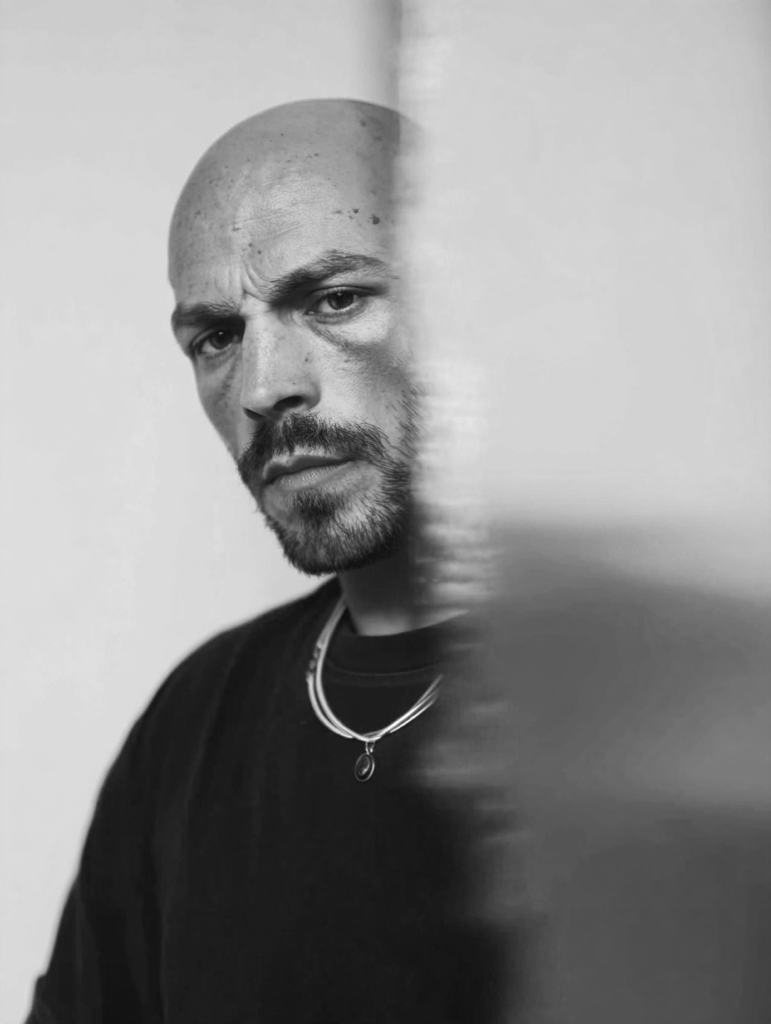
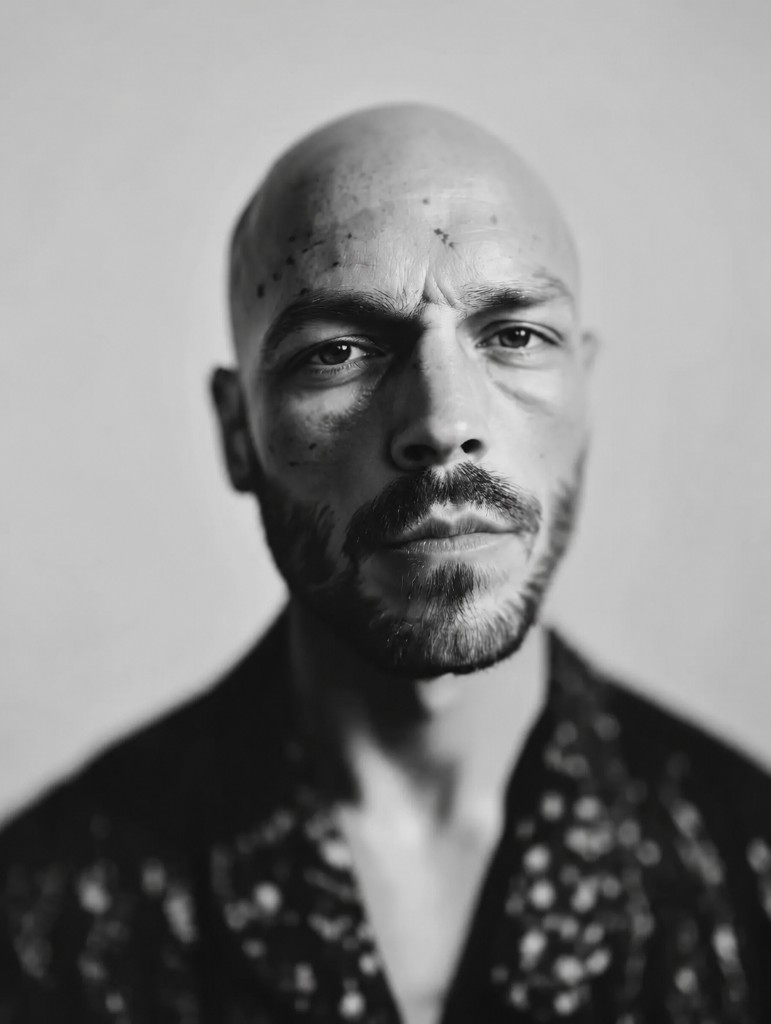
Use matched open-eyes portrait for realistic About blink.
Same 771×1024 frame pair from one shoot — full crossfade instead of masked eye overlays.

diff --git a/src/components/AboutPortrait.module.css b/src/components/AboutPortrait.module.css
@@ -20,52 +20,33 @@
   }
 }
 
-.closed,
-.open {
+.portrait,
+.portraitOpen {
   object-fit: contain;
   object-position: center top;
   filter: grayscale(1) contrast(1.04);
 }
 
-.open {
-  transform: scale(1.14) translate(3.4%, -3.1%);
-  transform-origin: 38% 36%;
-}
-
-.openEyes {
-  position: absolute;
-  inset: 0;
+.portraitOpen {
   opacity: 0;
-  pointer-events: none;
-  transform: scale(1);
-  transition:
-    opacity 0.1s ease-out,
-    transform 0.55s cubic-bezier(0.22, 1, 0.36, 1);
-  mask-image:
-    radial-gradient(ellipse 10% 4.5% at 38% 40.6%, #000 90%, transparent 100%),
-    radial-gradient(ellipse 10% 4.5% at 62% 40.6%, #000 90%, transparent 100%);
-  mask-composite: add;
-  -webkit-mask-image:
-    radial-gradient(ellipse 10% 4.5% at 38% 40.6%, #000 90%, transparent 100%),
-    radial-gradient(ellipse 10% 4.5% at 62% 40.6%, #000 90%, transparent 100%);
-  -webkit-mask-composite: source-over;
+  transition: opacity 0.11s ease-out;
 }
 
-.awake .openEyes {
+.awake .portraitOpen {
   opacity: 1;
-  transform: scale(1.008);
-  transition:
-    opacity 0.14s ease-out 0.04s,
-    transform 0.5s cubic-bezier(0.22, 1, 0.36, 1);
+  transition: opacity 0.16s ease-out 0.03s;
+}
+
+.figure:not(.awake) .portraitOpen {
+  transition: opacity 0.28s ease-in;
 }
 
 @media (prefers-reduced-motion: reduce) {
-  .openEyes {
+  .portraitOpen {
     transition: none;
   }
 
-  .awake .openEyes {
+  .awake .portraitOpen {
     opacity: 0;
-    transform: none;
   }
 }

diff --git a/src/components/AboutPortrait.tsx b/src/components/AboutPortrait.tsx
@@ -26,14 +26,14 @@ export function AboutPortrait() {
         setAwake(true);
         closeTimeoutRef.current = setTimeout(() => {
           setAwake(false);
-          scheduleBlink(randomBetween(14000, 32000));
-        }, randomBetween(1400, 2400));
+          scheduleBlink(randomBetween(14000, 34000));
+        }, randomBetween(1500, 2600));
       }, delayMs);
     }
 
     initialTimeoutRef.current = setTimeout(() => {
-      scheduleBlink(randomBetween(3500, 6500));
-    }, 2000);
+      scheduleBlink(randomBetween(4000, 7000));
+    }, 2200);
 
     return () => {
       if (initialTimeoutRef.current) clearTimeout(initialTimeoutRef.current);
@@ -54,18 +54,17 @@ export function AboutPortrait() {
           fill
           priority
           sizes="(max-width: 1024px) 100vw, 50vw"
-          className={styles.closed}
+          className={styles.portrait}
         />
 
-        <div className={styles.openEyes} aria-hidden="true">
-          <Image
-            src={OPEN_PORTRAIT}
-            alt=""
-            fill
-            sizes="(max-width: 1024px) 100vw, 50vw"
-            className={styles.open}
-          />
-        </div>
+        <Image
+          src={OPEN_PORTRAIT}
+          alt=""
+          fill
+          sizes="(max-width: 1024px) 100vw, 50vw"
+          className={styles.portraitOpen}
+          aria-hidden
+        />
       </div>
     </figure>
   );